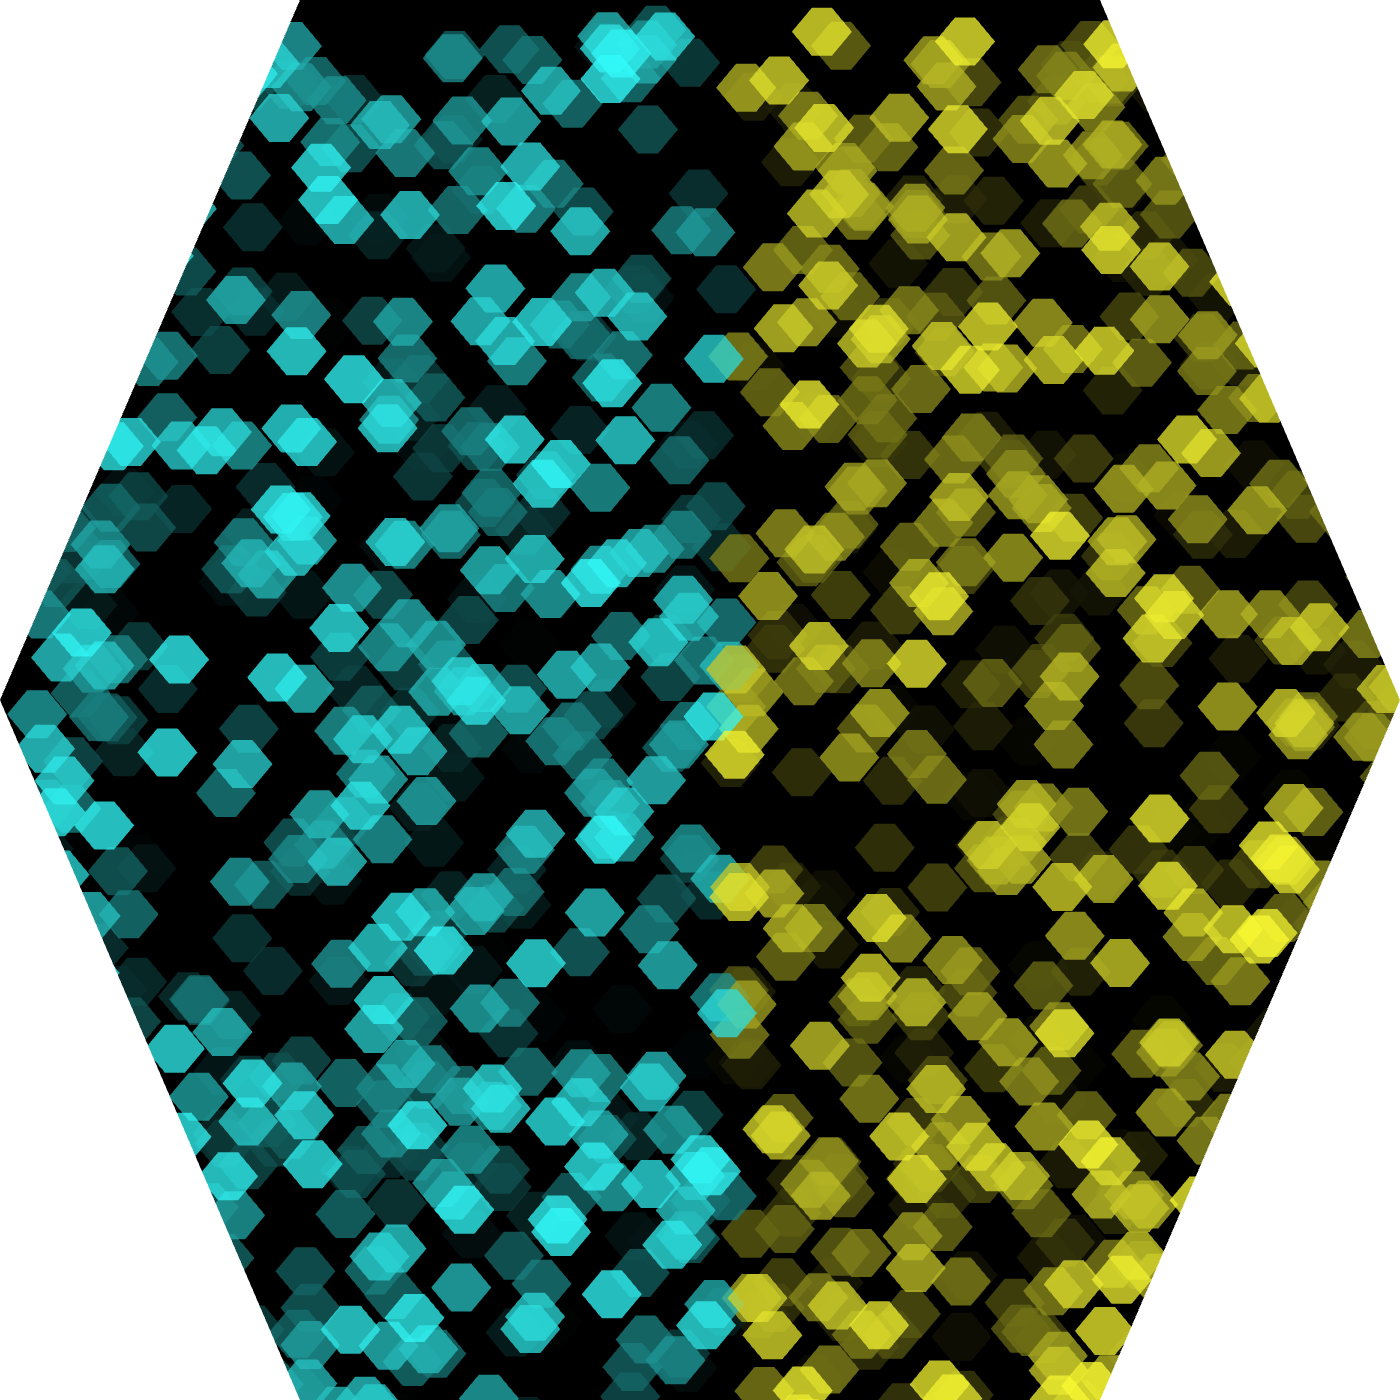
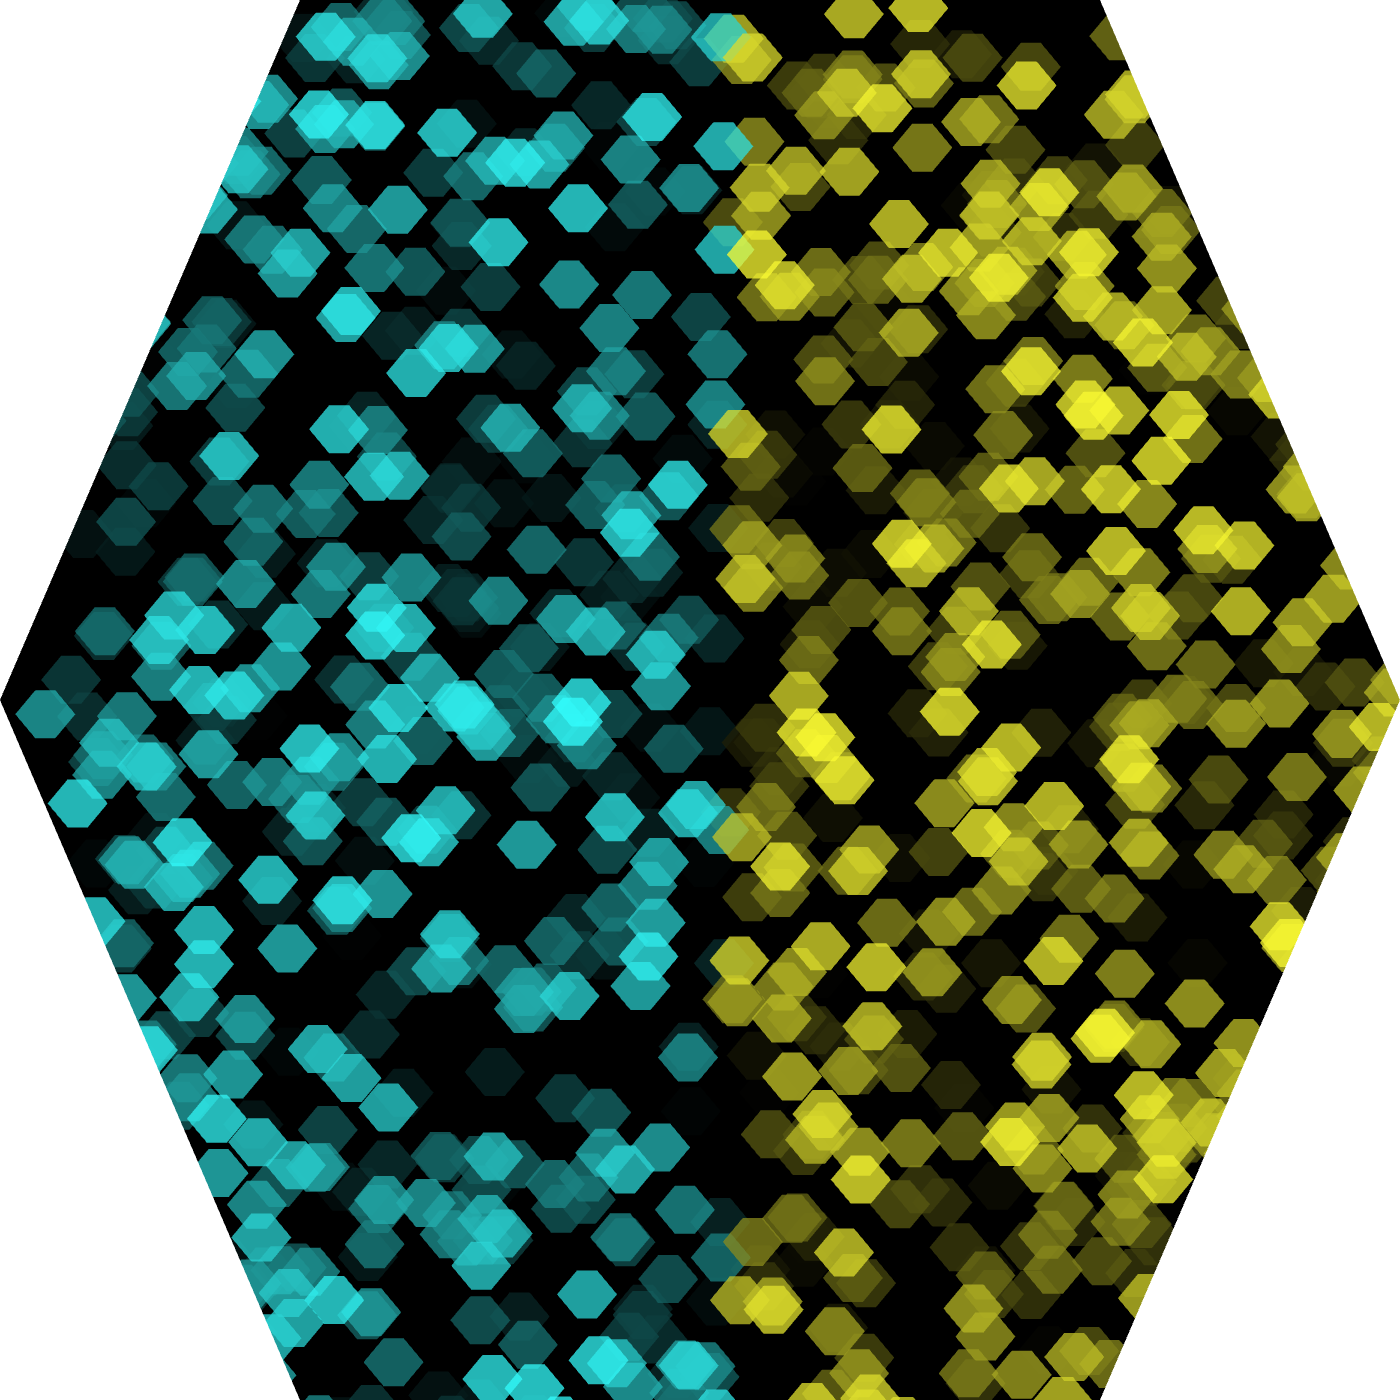
fix start point

diff --git a/public/programs/20240110.rb b/public/programs/20240110.rb
@@ -12,7 +12,7 @@ end
 def draw
   (1..1200).each do |i|
     x = rand(0..width)
-    y = rand(0..height)
+    y = rand(-10..height)
     if(x < 350)
    	  fill(180, 80, i / 12, 75)
     else 
